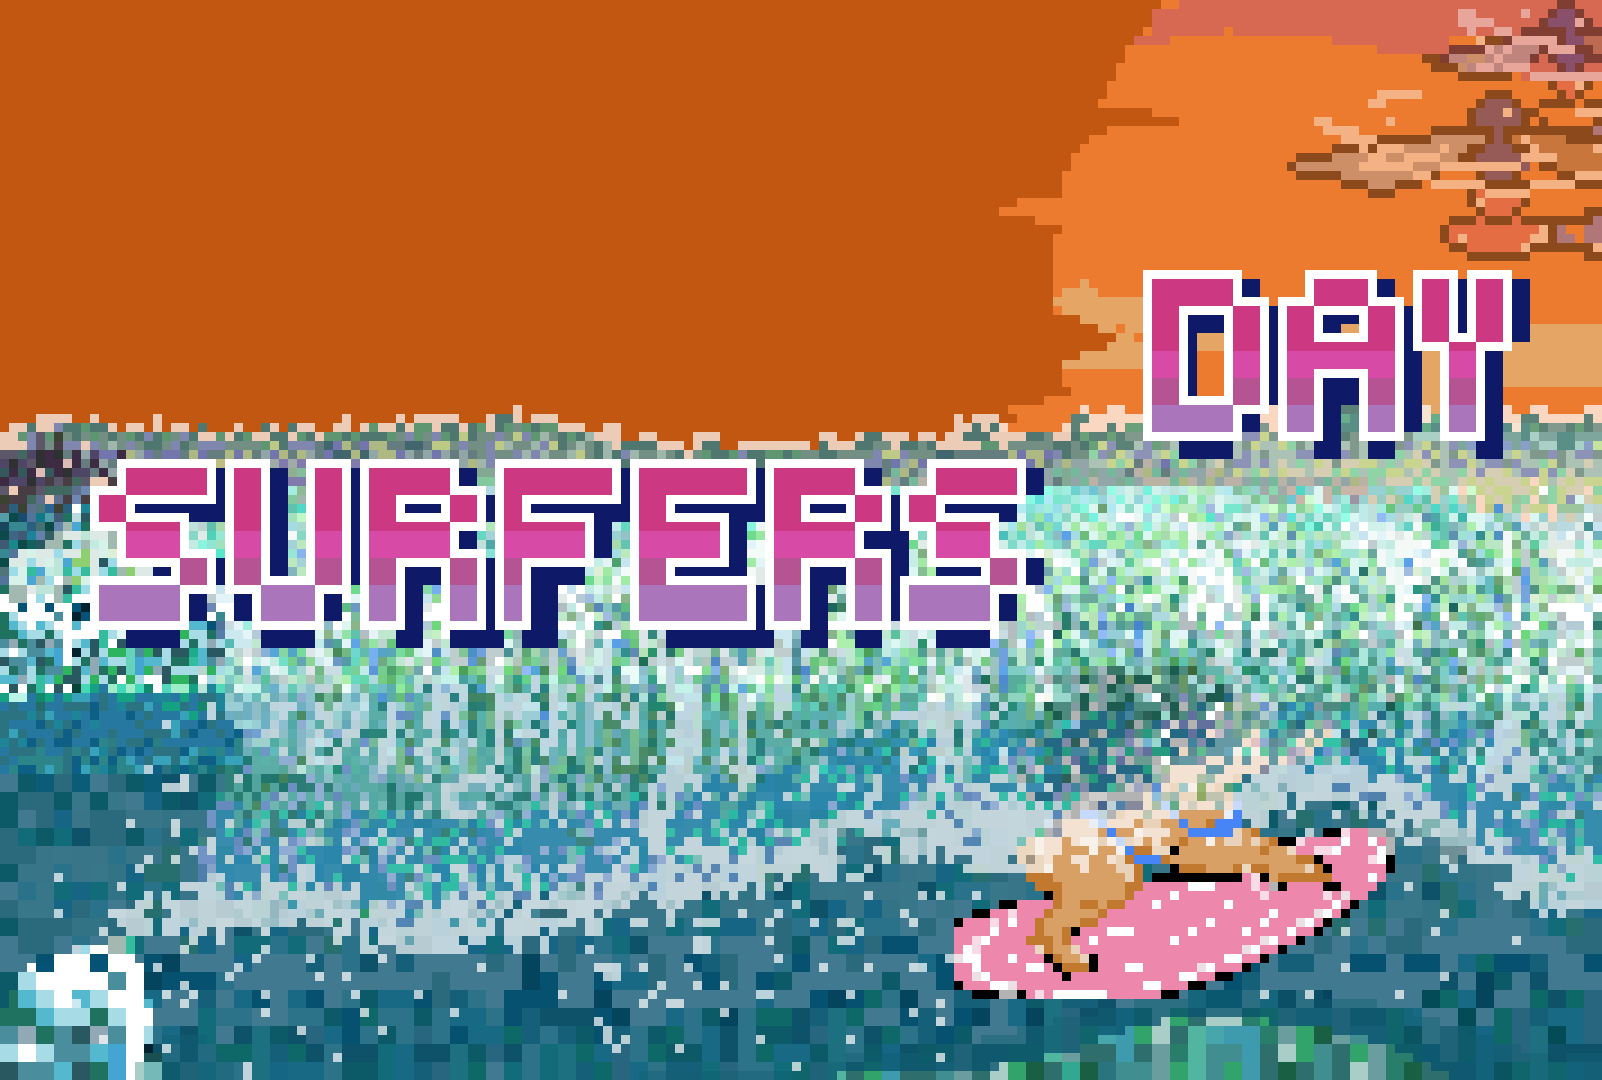
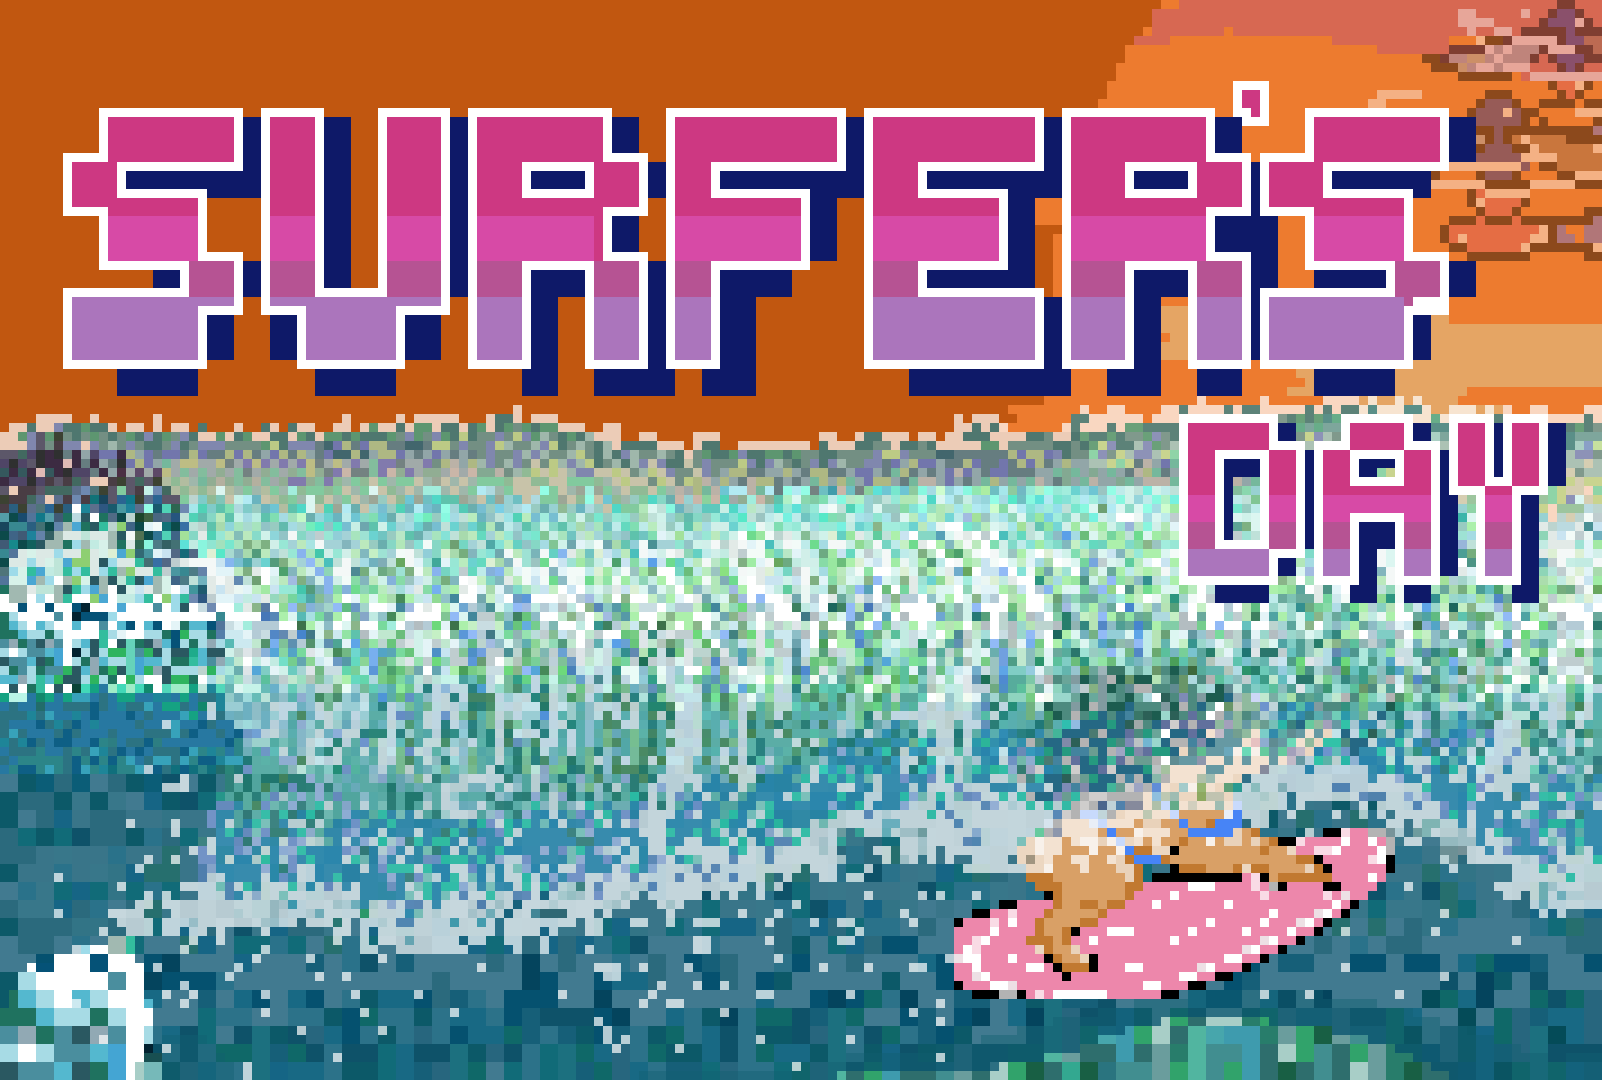
UI update, whale water pile update

diff --git a/MainMenu.c b/MainMenu.c
@@ -22,23 +22,25 @@ float HowToPlayButtonPosY;
 
 CP_Image MainMenuBackground;
 
+
 void MainMenuInit(void)
 {
 	InitMenuUI();
 	MainMenuBackground = CP_Image_Load("./Assets/MainMenuBackground.png");
+
 	CP_System_SetWindowSize(1600, 900);
 	CP_Settings_TextAlignment(CP_TEXT_ALIGN_H_CENTER, CP_TEXT_ALIGN_V_MIDDLE);
 	CP_Settings_RectMode(CP_POSITION_CORNER);
 	WindowCenterX = (float)CP_System_GetWindowWidth()/2.f;
 	WindowCenterY = (float)CP_System_GetWindowHeight()/2.f;
-	StartButtonPosX = 800 - (ButtonSizeX+5.f)*2.f;//WindowCenterX + WindowCenterX/2.f - (ButtonSizeX / 2.f) ;
-	StartButtonPosY = 900.f- (ButtonSizeY + 5.f) * 2.f;//WindowCenterY - (ButtonSizeY)-5.f;
-	QuitButtonPosX = 800 + (ButtonSizeX + 5.f) * 1.f;//WindowCenterX + WindowCenterX / 2.f - (ButtonSizeX / 2.f);
-	QuitButtonPosY = 900.f - (ButtonSizeY + 5.f) * 2.f;//WindowCenterY + (ButtonSizeY)+5.f;
-	RankButtonPosX = 800 - (ButtonSizeX + 5.f) * 1.f;//WindowCenterX + WindowCenterX / 2.f - (ButtonSizeX / 2.f);
-	RankButtonPosY = 900.f - (ButtonSizeY + 5.f) * 2.f;//WindowCenterY;
-	HowToPlayButtonPosX = 800 + (ButtonSizeX + 5.f) * 0.f;
-	HowToPlayButtonPosY = 900.f - (ButtonSizeY + 5.f) * 2.f;
+	StartButtonPosX = 800 - (ButtonSizeX+20.f)*2.f;//WindowCenterX + WindowCenterX/2.f - (ButtonSizeX / 2.f) ;
+	StartButtonPosY = 900.f- (ButtonSizeY + 5.f) * 2.f - 15.f;//WindowCenterY - (ButtonSizeY)-5.f;
+	QuitButtonPosX = 800 + (ButtonSizeX + 20.f) * 1.f;//WindowCenterX + WindowCenterX / 2.f - (ButtonSizeX / 2.f);
+	QuitButtonPosY = 900.f - (ButtonSizeY + 5.f) * 2.f + 15.f;//WindowCenterY + (ButtonSizeY)+5.f;
+	RankButtonPosX = 800 - (ButtonSizeX + 20.f) * 1.f;//WindowCenterX + WindowCenterX / 2.f - (ButtonSizeX / 2.f);
+	RankButtonPosY = 900.f - (ButtonSizeY + 5.f) * 2.f + 15.f;//WindowCenterY;
+	HowToPlayButtonPosX = 800 + (ButtonSizeX + 20.f) * 0.f;
+	HowToPlayButtonPosY = 900.f - (ButtonSizeY + 5.f) * 2.f - 15.f;
 	PlayMainMenuBGM();
 
 }
@@ -52,38 +54,38 @@ void MainMenuUpdate(void)
 	
 	//StartButton
 	CP_Settings_Fill(CP_Color_Create(64, 64, 64, 255));
-	CP_Image_Draw(UIBoard, StartButtonPosX, StartButtonPosY, ButtonSizeX, ButtonSizeY, 255);
+	CP_Image_Draw(StartBoard, StartButtonPosX, StartButtonPosY, ButtonSizeX, ButtonSizeY, 255);
 	//CP_Graphics_DrawRect(StartButtonPosX, StartButtonPosY, ButtonSizeX, ButtonSizeY);
-	CP_Settings_Fill(CP_Color_Create(0, 0, 0, 255));
-	CP_Font_DrawText("Start",StartButtonPosX+(ButtonSizeX /2.0f) , StartButtonPosY + (ButtonSizeY / 2.f));
+	//CP_Settings_Fill(CP_Color_Create(0, 0, 0, 255));
+	//CP_Font_DrawText("Start",StartButtonPosX+(ButtonSizeX /2.0f) , StartButtonPosY + (ButtonSizeY / 2.f));
 	
 	//QuitButton
 	CP_Settings_Fill(CP_Color_Create(64, 64, 64, 255));
-	CP_Image_Draw(UIBoard, QuitButtonPosX, QuitButtonPosY, ButtonSizeX, ButtonSizeY, 255);
+	CP_Image_Draw(QuitBoard, QuitButtonPosX, QuitButtonPosY, ButtonSizeX, ButtonSizeY, 255);
 	//CP_Graphics_DrawRect(QuitButtonPosX, QuitButtonPosY, ButtonSizeX, ButtonSizeY);
-	CP_Settings_Fill(CP_Color_Create(0, 0, 0, 255));
-	CP_Font_DrawText("Quit", QuitButtonPosX + (ButtonSizeX / 2.0f) , QuitButtonPosY + (ButtonSizeY / 2.f));
+	//CP_Settings_Fill(CP_Color_Create(0, 0, 0, 255));
+	//CP_Font_DrawText("Quit", QuitButtonPosX + (ButtonSizeX / 2.0f) , QuitButtonPosY + (ButtonSizeY / 2.f));
 	
 	//RankButton
 	CP_Settings_Fill(CP_Color_Create(64, 64, 64, 255));
-	CP_Image_Draw(UIBoard, RankButtonPosX, RankButtonPosY, ButtonSizeX, ButtonSizeY, 255);
+	CP_Image_Draw(RankBoard, RankButtonPosX, RankButtonPosY, ButtonSizeX, ButtonSizeY, 255);
 	//CP_Graphics_DrawRect(RankButtonPosX, RankButtonPosY, ButtonSizeX, ButtonSizeY);
-	CP_Settings_Fill(CP_Color_Create(0, 0, 0, 255));
-	CP_Font_DrawText("Rank", RankButtonPosX + (ButtonSizeX / 2.0f), RankButtonPosY + (ButtonSizeY / 2.f));
+	//CP_Settings_Fill(CP_Color_Create(0, 0, 0, 255));
+	//CP_Font_DrawText("Rank", RankButtonPosX + (ButtonSizeX / 2.0f), RankButtonPosY + (ButtonSizeY / 2.f));
 
 	//HowToPlayButton
 	CP_Settings_Fill(CP_Color_Create(64, 64, 64, 255));
-	CP_Image_Draw(UIBoard, HowToPlayButtonPosX, HowToPlayButtonPosY, ButtonSizeX, ButtonSizeY, 255);
+	CP_Image_Draw(HowBoard, HowToPlayButtonPosX, HowToPlayButtonPosY, ButtonSizeX, ButtonSizeY, 255);
 	//CP_Graphics_DrawRect(RankButtonPosX, RankButtonPosY, ButtonSizeX, ButtonSizeY);
-	CP_Settings_Fill(CP_Color_Create(0, 0, 0, 255));
-	CP_Font_DrawText("HowTo", HowToPlayButtonPosX + (ButtonSizeX / 2.0f), HowToPlayButtonPosY + (ButtonSizeY / 2.f));
+	//CP_Settings_Fill(CP_Color_Create(0, 0, 0, 255));
+	//CP_Font_DrawText("HowTo", HowToPlayButtonPosX + (ButtonSizeX / 2.0f), HowToPlayButtonPosY + (ButtonSizeY / 2.f));
 	
 	UpdateMainMenuKeyInput();
 }
 
 void MainMenuExit(void)
 {
-	StopMainMenuBGM();
+	
 }
 
 void UpdateMainMenuKeyInput(void)

diff --git a/RankMenu.c b/RankMenu.c
@@ -69,25 +69,25 @@ void RankMenuUpdate()
 	}
 
 	//CP_Settings_Fill(CP_Color_Create(255, 255, 255, 30));
-	CP_Image_Draw(UIBoard, PrevButtonPosX, PrevButtonPosY, RankMenuButtonSizeX, RankMenuButtonSizeY, 255);
+	CP_Image_Draw(PrevBoard, PrevButtonPosX, PrevButtonPosY, RankMenuButtonSizeX, RankMenuButtonSizeY, 255);
 	//CP_Graphics_DrawRect(PrevButtonPosX, PrevButtonPosY, RankMenuButtonSizeX, RankMenuButtonSizeY);
-	CP_Settings_Fill(CP_Color_Create(0, 0, 0, 255));
-	CP_Settings_TextSize(50.f);
-	CP_Font_DrawText("PREV", PrevButtonPosX + 60.f, PrevButtonPosY + 25.f);
+	//CP_Settings_Fill(CP_Color_Create(0, 0, 0, 255));
+	//CP_Settings_TextSize(50.f);
+	//CP_Font_DrawText("PREV", PrevButtonPosX + 60.f, PrevButtonPosY + 25.f);
 
-	CP_Image_Draw(UIBoard, NextButtonPosX, NextButtonPosY, RankMenuButtonSizeX, RankMenuButtonSizeY, 255);
+	CP_Image_Draw(NextBoard, NextButtonPosX, NextButtonPosY, RankMenuButtonSizeX, RankMenuButtonSizeY, 255);
 	//CP_Settings_Fill(CP_Color_Create(255, 255, 255, 30));
 	//CP_Graphics_DrawRect(NextButtonPosX, NextButtonPosY, RankMenuButtonSizeX, RankMenuButtonSizeY);
-	CP_Settings_Fill(CP_Color_Create(0, 0, 0, 255));
-	CP_Settings_TextSize(50.f);
-	CP_Font_DrawText("NEXT", NextButtonPosX + 60.f, NextButtonPosY + 25.f);
+	//CP_Settings_Fill(CP_Color_Create(0, 0, 0, 255));
+	//CP_Settings_TextSize(50.f);
+	//CP_Font_DrawText("NEXT", NextButtonPosX + 60.f, NextButtonPosY + 25.f);
 
-	CP_Image_Draw(UIBoard, RankMenuReturnToMainButtonPosX, RankMenuReturnToMainButtonPosY, RankMenuButtonSizeX, RankMenuButtonSizeY, 255);
+	CP_Image_Draw(MainBoard, RankMenuReturnToMainButtonPosX, RankMenuReturnToMainButtonPosY, RankMenuButtonSizeX, RankMenuButtonSizeY, 255);
 	//CP_Settings_Fill(CP_Color_Create(255, 255, 255, 30));
 	//CP_Graphics_DrawRect(RankMenuReturnToMainButtonPosX, RankMenuReturnToMainButtonPosY, RankMenuButtonSizeX, RankMenuButtonSizeY);
-	CP_Settings_Fill(CP_Color_Create(0, 0, 0, 255));
-	CP_Settings_TextSize(50.f);
-	CP_Font_DrawText("MAIN", RankMenuReturnToMainButtonPosX + 60.f, RankMenuReturnToMainButtonPosY + 25.f);
+	//CP_Settings_Fill(CP_Color_Create(0, 0, 0, 255));
+	//CP_Settings_TextSize(50.f);
+	//CP_Font_DrawText("MAIN", RankMenuReturnToMainButtonPosX + 60.f, RankMenuReturnToMainButtonPosY + 25.f);
 
 	UpdateRankMenuKeyInput();
 }

diff --git a/ScoreBoard.c b/ScoreBoard.c
@@ -100,17 +100,17 @@ void ScoreBoradUpdate(void)
 		CP_Font_DrawText(TempStr, WindowCenterX - 200.f + 24.f + offset * i, WindowCenterY - 300.f + 18.f);
 	}
 
-	CP_Settings_Fill(CP_Color_Create(0, 0, 0, 255));
-	CP_Settings_TextSize(50.f);
-	CP_Image_Draw(UIBoard, RestartPosX, RestartPosY, SocreBoardBtnSizeX, SocreBoardBtnSizeY, 255);
-	CP_Font_DrawText("Start", RestartPosX + 50.f, RestartPosY + 25.f);
+	//CP_Settings_Fill(CP_Color_Create(0, 0, 0, 255));
+	//CP_Settings_TextSize(50.f);
+	CP_Image_Draw(StartBoard, RestartPosX, RestartPosY, SocreBoardBtnSizeX, SocreBoardBtnSizeY, 255);
+	//CP_Font_DrawText("Start", RestartPosX + 50.f, RestartPosY + 25.f);
 	
 	//CP_Settings_Fill(CP_Color_Create(255, 255, 255, 30));
 	//CP_Graphics_DrawRect(RestartPosX, RestartPosY, SocreBoardBtnSizeX, SocreBoardBtnSizeY);
 
-	CP_Settings_Fill(CP_Color_Create(0, 0, 0, 255));
-	CP_Image_Draw(UIBoard, GoToMainPosX, GoToMainPosY, SocreBoardBtnSizeX, SocreBoardBtnSizeY, 255);
-	CP_Font_DrawText("Main", GoToMainPosX + 70.f, GoToMainPosY + 25.f);
+	//CP_Settings_Fill(CP_Color_Create(0, 0, 0, 255));
+	CP_Image_Draw(MainBoard, GoToMainPosX, GoToMainPosY, SocreBoardBtnSizeX, SocreBoardBtnSizeY, 255);
+	//CP_Font_DrawText("Main", GoToMainPosX + 70.f, GoToMainPosY + 25.f);
 
 	//CP_Settings_Fill(CP_Color_Create(255, 255, 255, 30));
 	//CP_Graphics_DrawRect(GoToMainPosX, GoToMainPosY, SocreBoardBtnSizeX, SocreBoardBtnSizeY);

diff --git a/AssetLib.c b/AssetLib.c
@@ -43,7 +43,15 @@ CP_Image Bridge;
 
 CP_Image ScoreBoardBackground;
 CP_Image ScoreBoardInGame;
-CP_Image UIBoard;
+
+CP_Image StartBoard;
+CP_Image HowBoard;
+CP_Image RankBoard;
+CP_Image QuitBoard;
+CP_Image MainBoard;
+CP_Image PrevBoard;
+CP_Image NextBoard;
+
 CP_Image WhaleArrowImage;
 CP_Image WhaleGoImage;
 
@@ -56,7 +64,7 @@ CP_Font DotFont;
 void InitAsset()
 {
 	InGameBGM = CP_Sound_LoadMusic("./Assets/game_to_dance.mp3");
-	MainMenuBGM = CP_Sound_LoadMusic("./Assets/best-game-console-301284.mp3");
+	
 	
 	SFXBatteryRecharge = CP_Sound_Load("./Assets/GetBatterySFX.mp3");
 	SFXJump = CP_Sound_Load("./Assets/JumpSFX.mp3");
@@ -212,8 +220,15 @@ void InitAsset()
 
 void InitMenuUI()
 {
-	UIBoard = CP_Image_Load("./Assets/UIBoard.png");
+	StartBoard = CP_Image_Load("./Assets/StartButton.png");
+	HowBoard = CP_Image_Load("./Assets/HowButton.png");
+	RankBoard = CP_Image_Load("./Assets/RankButton.png");
+	QuitBoard = CP_Image_Load("./Assets/QuitButton.png");
+	MainBoard = CP_Image_Load("./Assets/MainButton.png");
+	PrevBoard = CP_Image_Load("./Assets/PrevButton.png");
+	NextBoard = CP_Image_Load("./Assets/NextButton.png");
 	DotFont = CP_Font_Load("./Assets/lcddot_tr.ttf");
 	CP_Font_Set(DotFont);
+	MainMenuBGM = CP_Sound_LoadMusic("./Assets/best-game-console-301284.mp3");
 }
 

diff --git a/BigWave.c b/BigWave.c
@@ -3,6 +3,7 @@
 #include "stdio.h"
 #include "Item.h"
 #include "AssetLib.h"
+#include "Particle.h"
 
 float LastWavingGameSpeed = 0.f;
 float AnimationNextTime = 2.f;
@@ -29,7 +30,7 @@ void UpdateWave()
 		float ImageSizeX = (float)CP_Image_GetWidth(BigWaveData.WaveImage);
 		float ImageSizeY = (float)CP_Image_GetHeight(BigWaveData.WaveImage);
 		BigWaveData.AnimationTimer += CP_System_GetDt();
-
+		
 		if (CharacterData.CharacterState == WAVING || CharacterData.CharacterState == HEIGHESTWAVE)
 		{
 			CharacterData.Score += CP_System_GetDt() * GameData.Speed*0.2f;
@@ -173,6 +174,7 @@ void RenderWhale()
 			(WhaleData.ObstacleImageSize.x/3) * (WhaleData.ImageAnimationIndex + 1),
 			WhaleData.ObstacleImageSize.y,
 			255);
+		generate_whale_blow_particles(WhaleData.ObstaclePos.x + 1000.f, WhaleData.ObstaclePos.y+50.f);
 		WhaleData.ObstaclePos.x -= 300.f * CP_System_GetDt();
 		WhaleData.ImageAnimationTimer += CP_System_GetDt();
 		if (WhaleData.ImageAnimationTimer >1.f)

diff --git a/BGM.c b/BGM.c
@@ -1,5 +1,5 @@
 #include "BGM.h"
-
+#include "stdbool.h"
 
 CP_Sound MainMenuBGM;
 CP_Sound InGameBGM;
@@ -10,15 +10,21 @@ CP_Sound SFXCollision;
 CP_Sound SFXCombo;
 CP_Sound SFXGameOver;
 CP_Sound SFXMedal;
+bool bIsMainMenuPlaying = false;
 
 void PlayMainMenuBGM()
 {
-	CP_Sound_PlayAdvanced(MainMenuBGM, 1.0, 1.0, TRUE, CP_SOUND_GROUP_MUSIC);
+	if (!bIsMainMenuPlaying)
+	{
+		CP_Sound_PlayAdvanced(MainMenuBGM, 1.0, 1.0, TRUE, CP_SOUND_GROUP_MUSIC);
+		bIsMainMenuPlaying = true;
+	}
 }
 
 void StopMainMenuBGM()
 {
 	CP_Sound_StopAll();
+	bIsMainMenuPlaying = false;
 }
 
 void PlayInGameBGM()

diff --git a/HowToPlay.c b/HowToPlay.c
@@ -21,9 +21,9 @@ void HowToPlayMenuUpdate(void)
 
 	//HowToPlayButton
 	CP_Settings_Fill(CP_Color_Create(64, 64, 64, 255));
-	CP_Image_Draw(UIBoard, ExitButtonX, ExitButtonY, ExitButtonSizeX, ExitButtonSizeY, 255);
-	CP_Settings_Fill(CP_Color_Create(0, 0, 0, 255));
-	CP_Font_DrawText("Exit", ExitButtonX + 100.f, ExitButtonY + 50.f);
+	CP_Image_Draw(QuitBoard, ExitButtonX, ExitButtonY, ExitButtonSizeX, ExitButtonSizeY, 255);
+	//CP_Settings_Fill(CP_Color_Create(0, 0, 0, 255));
+	//CP_Font_DrawText("Exit", ExitButtonX + 100.f, ExitButtonY + 50.f);
 
 	UpdateHowToPlayMenuKeyInput();
 }

diff --git a/GlobalVariables.c b/GlobalVariables.c
@@ -98,7 +98,7 @@ void InitBigWaveData()
 	BigWaveData.bIsRiderable = false;
 	BigWaveData.bIsValid = false;
 	BigWaveData.WaveImageSize = CP_Vector_Set((float)CP_System_GetWindowWidth(), (float)CP_System_GetWindowHeight() / 5.f);
-	BigWaveData.WaveETA = CP_Random_RangeFloat(0.f,0.f);//(10.f,15.f);
+	BigWaveData.WaveETA = CP_Random_RangeFloat(10.f,15.f);
 	BigWaveData.WaveImage = CP_Image_Load("./Assets/Wave.png");
 	BigWaveData.WaveRiderableStartIndex = 2;
 	BigWaveData.WaveRiderableEndIndex = 5;

diff --git a/drone.c b/drone.c
@@ -165,7 +165,8 @@ void DrawLine(float CharacterX, float CharacterY, float DroneX, float DroneY)
         }
         CurveDepthDelta = CP_Random_RangeFloat(0.2f,1.f);
     }
-    CP_Settings_StrokeWeight(1.f);
+    CP_Settings_Stroke(CP_Color_Create(0,0,0,255));
+    CP_Settings_StrokeWeight(2.f);
     for (int i = 0; i < segments; i++) {
         float t1 = i / (float)(segments);
         float t2 = (i + 1) / (float)(segments);

diff --git a/AssetLib.h b/AssetLib.h
@@ -44,7 +44,13 @@ extern CP_Image Sand;
 extern CP_Image Bridge;
 extern CP_Image ScoreBoardBackground;
 extern CP_Image ScoreBoardInGame;
-extern CP_Image UIBoard;
+extern CP_Image StartBoard;
+extern CP_Image HowBoard;
+extern CP_Image RankBoard;
+extern CP_Image QuitBoard;
+extern CP_Image MainBoard;
+extern CP_Image PrevBoard;
+extern CP_Image NextBoard;
 extern CP_Image WhaleArrowImage;
 extern CP_Image WhaleGoImage;
 

diff --git a/Game.c b/Game.c
@@ -20,6 +20,7 @@
 // this function will be called once at the beginning of the program
 void game_init(void)
 {
+	StopMainMenuBGM();
 	CP_System_SetWindowSize(1600, 900);
 	InitShake();
 	InitGameData();
